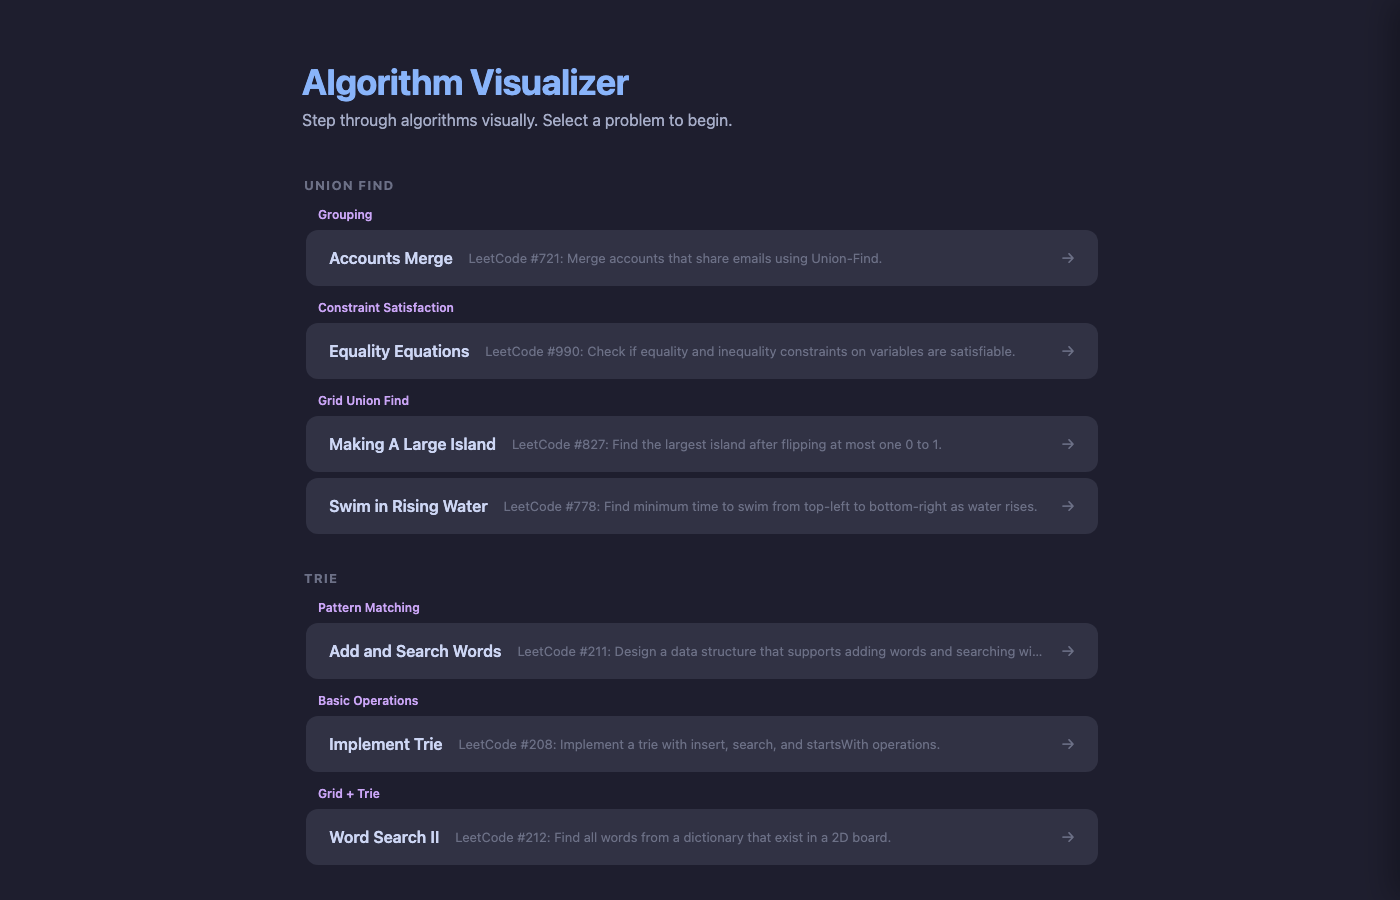
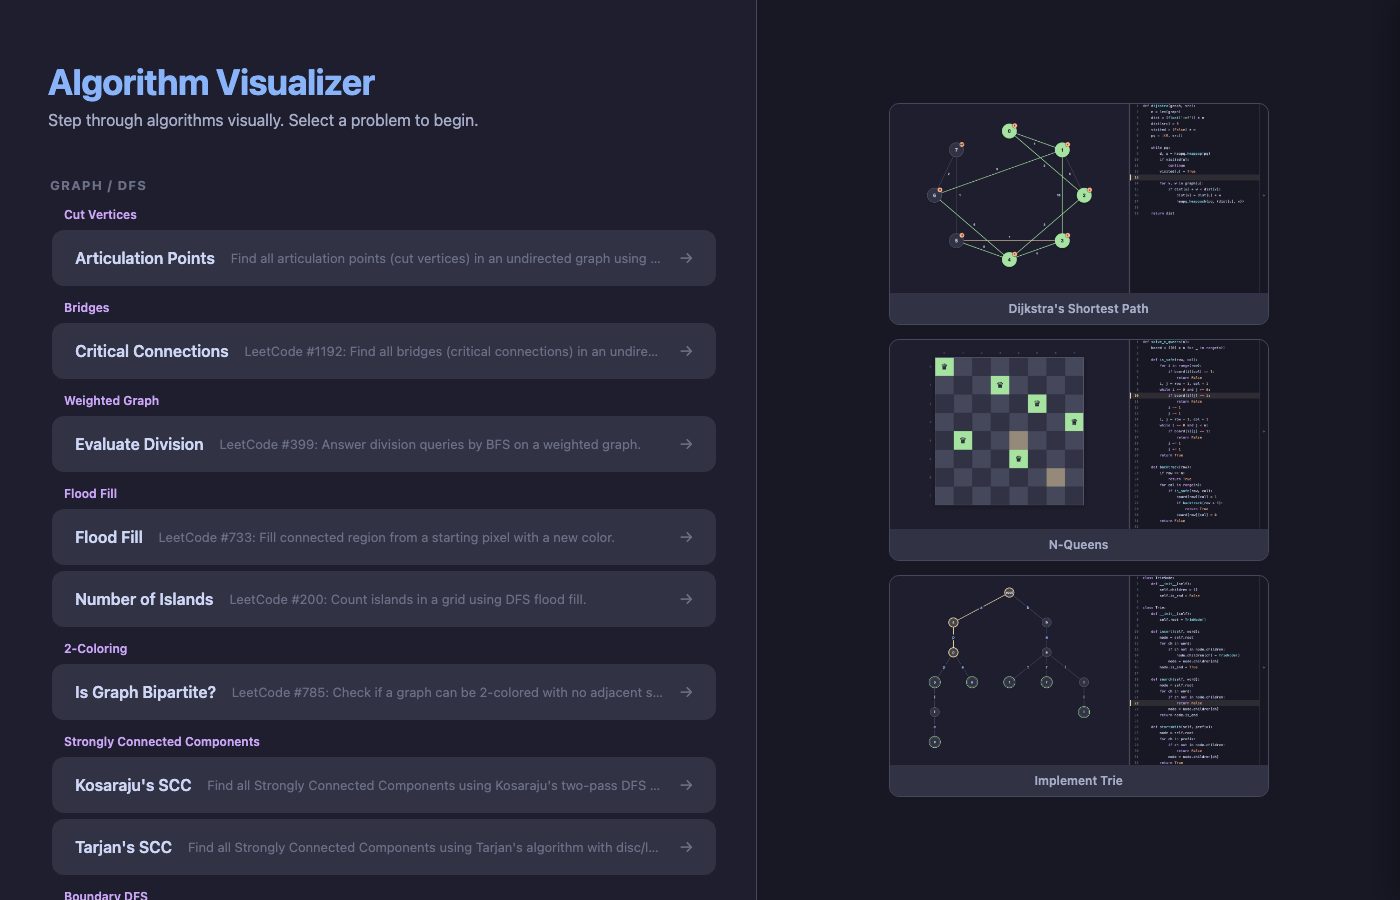
Two-pane landing page with showcase gallery and topic ordering
Split landing into left (scrollable problem list) and right (showcase
screenshots) panes. Add explicit topic ordering with Graph/DFS first
and Union Find last. Showcase displays Dijkstra, N-Queens, and Trie
screenshots that link to their problems. Fix Union-Find topic name
inconsistency across problem files.

diff --git a/static/js/app.js b/static/js/app.js
@@ -5,6 +5,7 @@ document.addEventListener('DOMContentLoaded', () => {
 
     // --- Landing elements ---
     const problemPicker = document.getElementById('problem-picker');
+    const showcaseGallery = document.getElementById('showcase-gallery');
     const detailPanel = document.getElementById('detail-panel');
     const detailOverlay = document.getElementById('detail-overlay');
     const detailClose = document.getElementById('detail-close');
@@ -168,6 +169,13 @@ document.addEventListener('DOMContentLoaded', () => {
         }, 300);
     }
 
+    // --- Explicit topic display order ---
+    const TOPIC_ORDER = [
+        "Graph / DFS", "Graph / BFS", "Topological Sort", "Backtracking",
+        "Dynamic Programming", "Shortest Path", "Minimum Spanning Tree",
+        "Greedy", "Tree / BFS", "Trie", "Union Find",
+    ];
+
     // --- Build problem picker (grouped by topic > subtopic) ---
     function buildPicker(problems) {
         problemPicker.innerHTML = '';
@@ -181,7 +189,12 @@ document.addEventListener('DOMContentLoaded', () => {
             topicMap.get(p.subtopic).push(p);
         });
 
-        groups.forEach((subtopics, topic) => {
+        // Sort by explicit order; unknown topics go at the end
+        const sorted = new Map();
+        TOPIC_ORDER.forEach(t => { if (groups.has(t)) sorted.set(t, groups.get(t)); });
+        groups.forEach((v, t) => { if (!sorted.has(t)) sorted.set(t, v); });
+
+        sorted.forEach((subtopics, topic) => {
             const topicDiv = document.createElement('div');
             topicDiv.className = 'topic-group';
 
@@ -220,6 +233,48 @@ document.addEventListener('DOMContentLoaded', () => {
             });
 
             problemPicker.appendChild(topicDiv);
+        });
+    }
+
+    // --- Showcase gallery data ---
+    const SHOWCASE_ITEMS = [
+        { problem: "Dijkstra's Shortest Path", img: "/screenshots/dijkstra.png", caption: "Dijkstra's Shortest Path" },
+        { problem: "N-Queens", img: "/screenshots/n_queens.png", caption: "N-Queens" },
+        { problem: "Implement Trie", img: "/screenshots/implement_trie.png", caption: "Implement Trie" },
+    ];
+
+    function buildShowcase(problems) {
+        showcaseGallery.innerHTML = '';
+        SHOWCASE_ITEMS.forEach(item => {
+            const card = document.createElement('div');
+            card.className = 'showcase-card';
+
+            const img = document.createElement('img');
+            img.src = item.img;
+            img.alt = item.caption;
+            img.loading = 'lazy';
+            card.appendChild(img);
+
+            const caption = document.createElement('div');
+            caption.className = 'showcase-card-caption';
+            caption.textContent = item.caption;
+            card.appendChild(caption);
+
+            // Clicking a showcase card opens the problem detail panel
+            card.addEventListener('click', () => {
+                const p = problems.find(prob => prob.name === item.problem);
+                if (p) {
+                    document.querySelectorAll('.problem-card').forEach(c => c.classList.remove('selected'));
+                    const matchCard = document.querySelector(`.problem-card[data-name="${p.name}"]`);
+                    if (matchCard) {
+                        matchCard.classList.add('selected');
+                        matchCard.scrollIntoView({ behavior: 'smooth', block: 'center' });
+                    }
+                    openDetailPanel(p);
+                }
+            });
+
+            showcaseGallery.appendChild(card);
         });
     }
 
@@ -402,11 +457,12 @@ document.addEventListener('DOMContentLoaded', () => {
         }
     });
 
-    // --- Init: just load problem list, don't auto-run ---
+    // --- Init: load problem list and build showcase ---
     async function init() {
         const res = await fetch('/api/problems');
         problems = await res.json();
         buildPicker(problems);
+        buildShowcase(problems);
     }
 
     init();

diff --git a/static/css/style.css b/static/css/style.css
@@ -52,15 +52,32 @@ html, body {
 #landing-screen {
     height: 100%;
     display: flex;
-    align-items: flex-start;
-    justify-content: center;
-    overflow-y: auto;
+    flex-direction: row;
+    overflow: hidden;
 }
 
-.landing-content {
-    width: 100%;
-    max-width: 860px;
-    padding: 60px 32px 60px;
+.landing-left {
+    flex: 55;
+    overflow-y: auto;
+    padding: 60px 40px 60px 48px;
+    min-width: 0;
+}
+
+.landing-right {
+    flex: 45;
+    display: flex;
+    align-items: center;
+    justify-content: center;
+    padding: 40px 48px;
+    overflow-y: auto;
+    border-left: 1px solid var(--border);
+    background: var(--bg-secondary);
+}
+
+@media (max-width: 1024px) {
+    #landing-screen { flex-direction: column; }
+    .landing-left { flex: none; }
+    .landing-right { display: none; }
 }
 
 .landing-title {
@@ -162,6 +179,51 @@ html, body {
 .problem-card:hover .problem-card-arrow,
 .problem-card.selected .problem-card-arrow {
     transform: translateX(2px);
+    color: var(--accent);
+}
+
+/* --- Showcase Gallery (right pane) --- */
+#showcase-gallery {
+    display: flex;
+    flex-direction: column;
+    gap: 14px;
+    width: 100%;
+    max-width: 380px;
+}
+
+.showcase-card {
+    position: relative;
+    border-radius: 10px;
+    overflow: hidden;
+    cursor: pointer;
+    border: 1px solid var(--border);
+    background: var(--bg-surface);
+    transition: all 0.2s ease;
+}
+
+.showcase-card:hover {
+    border-color: var(--accent);
+    box-shadow: 0 0 20px rgba(137, 180, 250, 0.15);
+    transform: translateY(-2px);
+}
+
+.showcase-card img {
+    width: 100%;
+    display: block;
+    aspect-ratio: 16 / 8;
+    object-fit: cover;
+}
+
+.showcase-card-caption {
+    padding: 8px 12px;
+    font-size: 12px;
+    font-weight: 600;
+    color: var(--text-secondary);
+    text-align: center;
+    background: var(--bg-surface);
+}
+
+.showcase-card:hover .showcase-card-caption {
     color: var(--accent);
 }
 

diff --git a/templates/index.html b/templates/index.html
@@ -9,12 +9,20 @@
 <body>
     <!-- ===== LANDING SCREEN ===== -->
     <div id="landing-screen">
-        <div class="landing-content">
+        <!-- Left pane: scrollable problem list -->
+        <div class="landing-left">
             <h1 class="landing-title">Algorithm Visualizer</h1>
             <p class="landing-subtitle">Step through algorithms visually. Select a problem to begin.</p>
 
             <div id="problem-picker">
                 <!-- Populated by JS: grouped by topic > subtopic -->
+            </div>
+        </div>
+
+        <!-- Right pane: showcase gallery (sticky) -->
+        <div class="landing-right">
+            <div id="showcase-gallery">
+                <!-- Populated by JS: clickable screenshot cards -->
             </div>
         </div>
 

diff --git a/main.py b/main.py
@@ -3,7 +3,7 @@ from __future__ import annotations
 import webbrowser
 from threading import Timer
 
-from flask import Flask, jsonify, render_template, request
+from flask import Flask, jsonify, render_template, request, send_from_directory
 from flask_compress import Compress
 
 from problems.registry import discover_problems
@@ -33,6 +33,11 @@ def _coerce_bool(value: object, default: bool = True) -> bool:
 @app.route("/")
 def index():
     return render_template("index.html")
+
+
+@app.route("/screenshots/<path:filename>")
+def serve_screenshot(filename):
+    return send_from_directory("screenshots", filename)
 
 
 @app.route("/api/problems")

diff --git a/problems/redundant_connection.py b/problems/redundant_connection.py
@@ -38,7 +38,7 @@ class RedundantConnection(Problem):
 
     @staticmethod
     def topic() -> str:
-        return "Union-Find"
+        return "Union Find"
 
     @staticmethod
     def subtopic() -> str:

diff --git a/problems/number_of_provinces.py b/problems/number_of_provinces.py
@@ -42,7 +42,7 @@ class NumberOfProvinces(Problem):
 
     @staticmethod
     def topic() -> str:
-        return "Union-Find"
+        return "Union Find"
 
     @staticmethod
     def subtopic() -> str:
